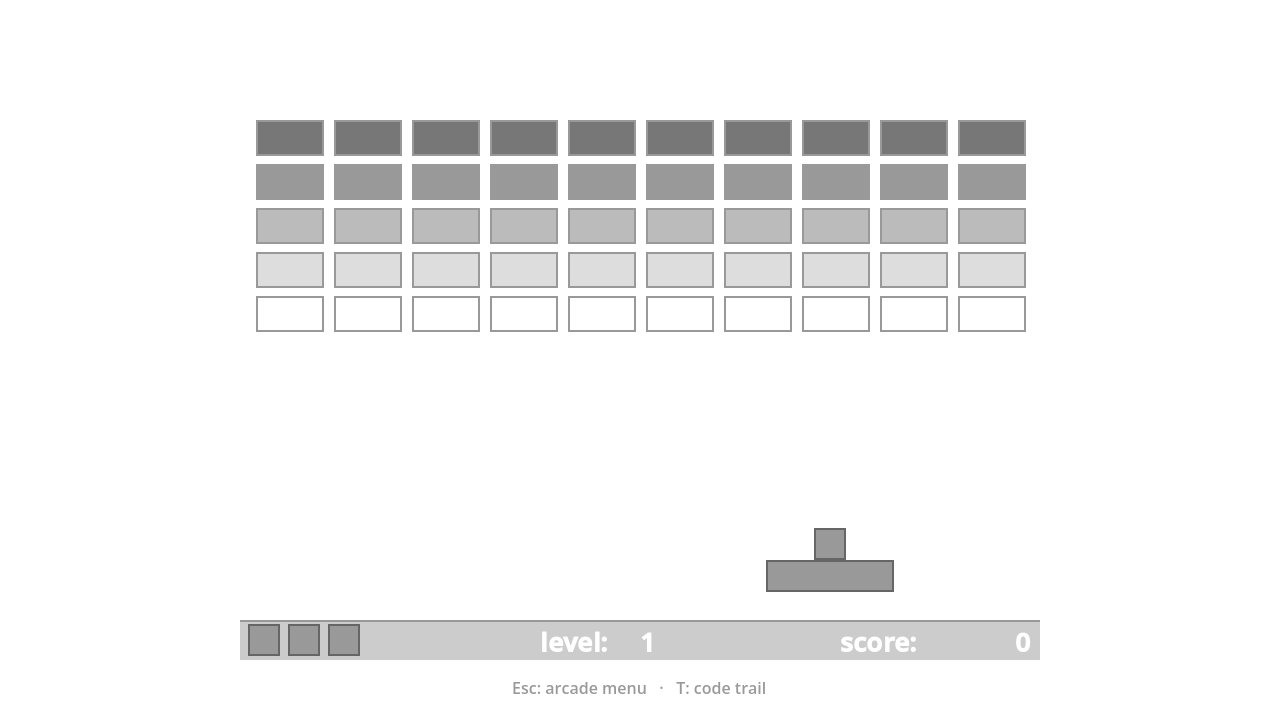
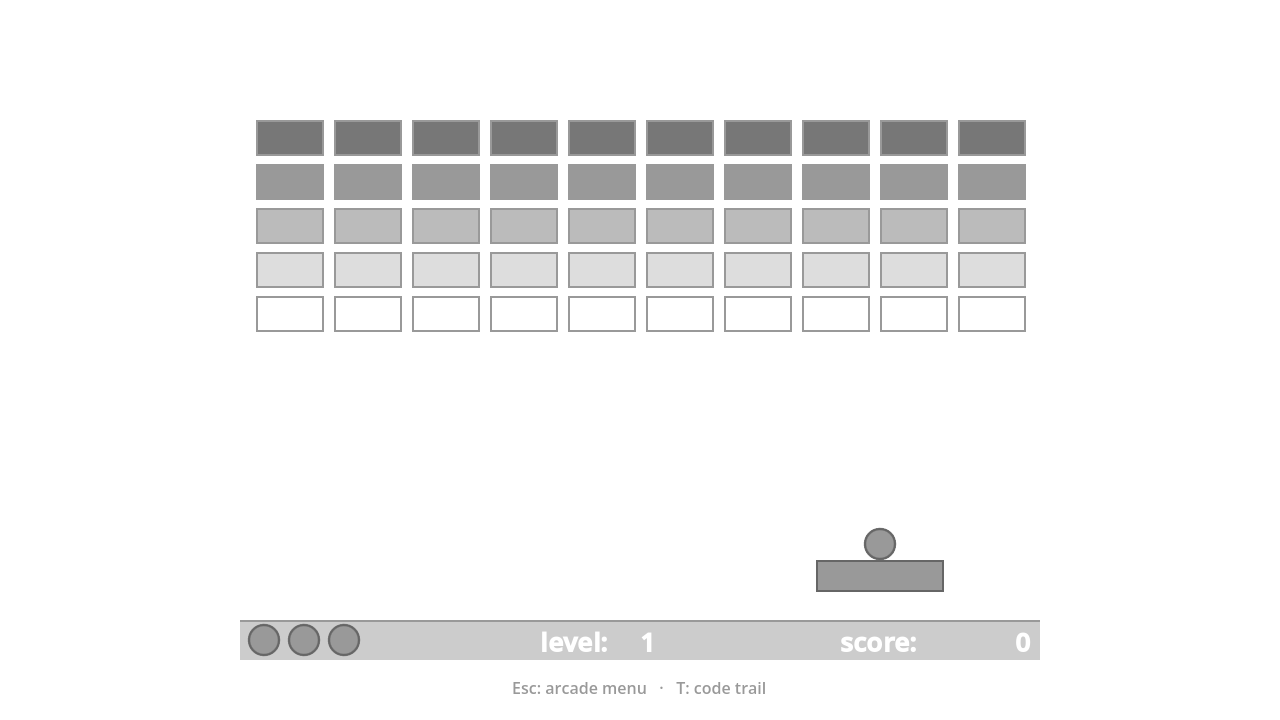
fix(brickslayer): draw ball and spare lives as circles
paddle.png/ball.png are missing, so Direct used gray rects for both.
Keep the paddle as a gray box; draw the ball and spare-life icons as
filled circles (gray fill + darker ring) centered in the 16×16 AABB.
Physics unchanged. Recapture brickslayer_direct.png preview.

Changed region(s): [[0.5938, 0.7333, 0.75, 0.825], [0.1875, 0.8556, 0.2812, 0.9167]]

diff --git a/games/brickslayer/PORT.md b/games/brickslayer/PORT.md
@@ -22,7 +22,7 @@
 
 ### Deliberate deviations
 - **Tick rate:** 10 ms fixed. The original `setInterval(…, 1)` was clamped to about 10 ms by 2007 browsers.
-- **Missing media:** see ASSETS.md. Paddle and ball are gray boxes, `dimgray.png` is a 50% gray fill, and the game-over and high-score titles show their alt text. Sounds are silent unless the mp3s are vendored later.
+- **Missing media:** see ASSETS.md. Paddle is a gray box; ball and spare-life icons are gray circles; `dimgray.png` is a 50% gray fill, and the game-over and high-score titles show their alt text. Sounds are silent unless the mp3s are vendored later.
 - **Name entry:** Enter in the name field also submits (the original had only the "go" button).
 - **Sound mapping:** the `soundManager.play('hit'/'break'/'serve')` call sites weren't in the listings. `serve` plays on serve, `hit` on a shade change, and `break` when a brick is destroyed. Only `bounce` and `fall` are shown in the code.
 - **Keys:** Esc opens the arcade PauseOverlay. T opens the code trail. R restarts when playing lessons 00–07, which have no restart path of their own.
